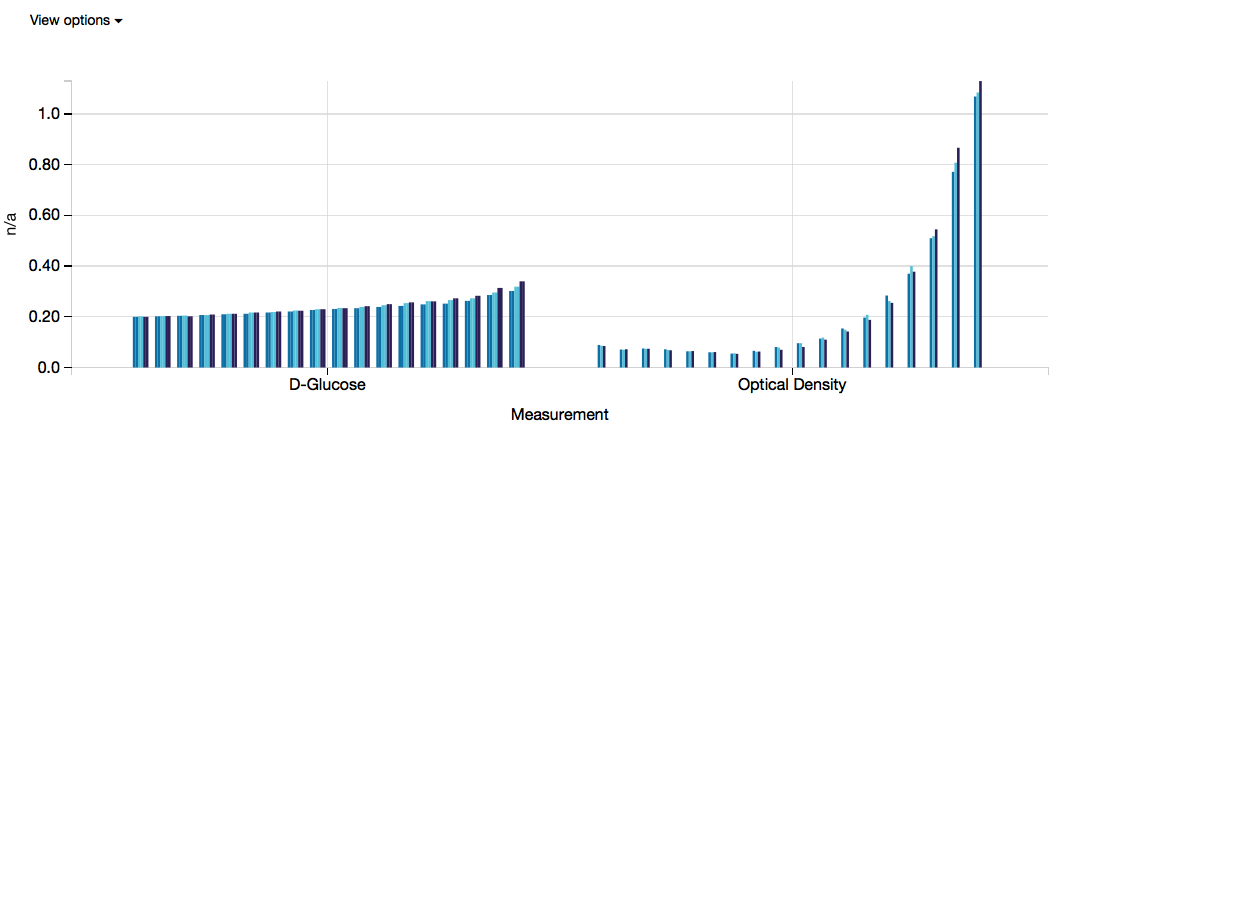
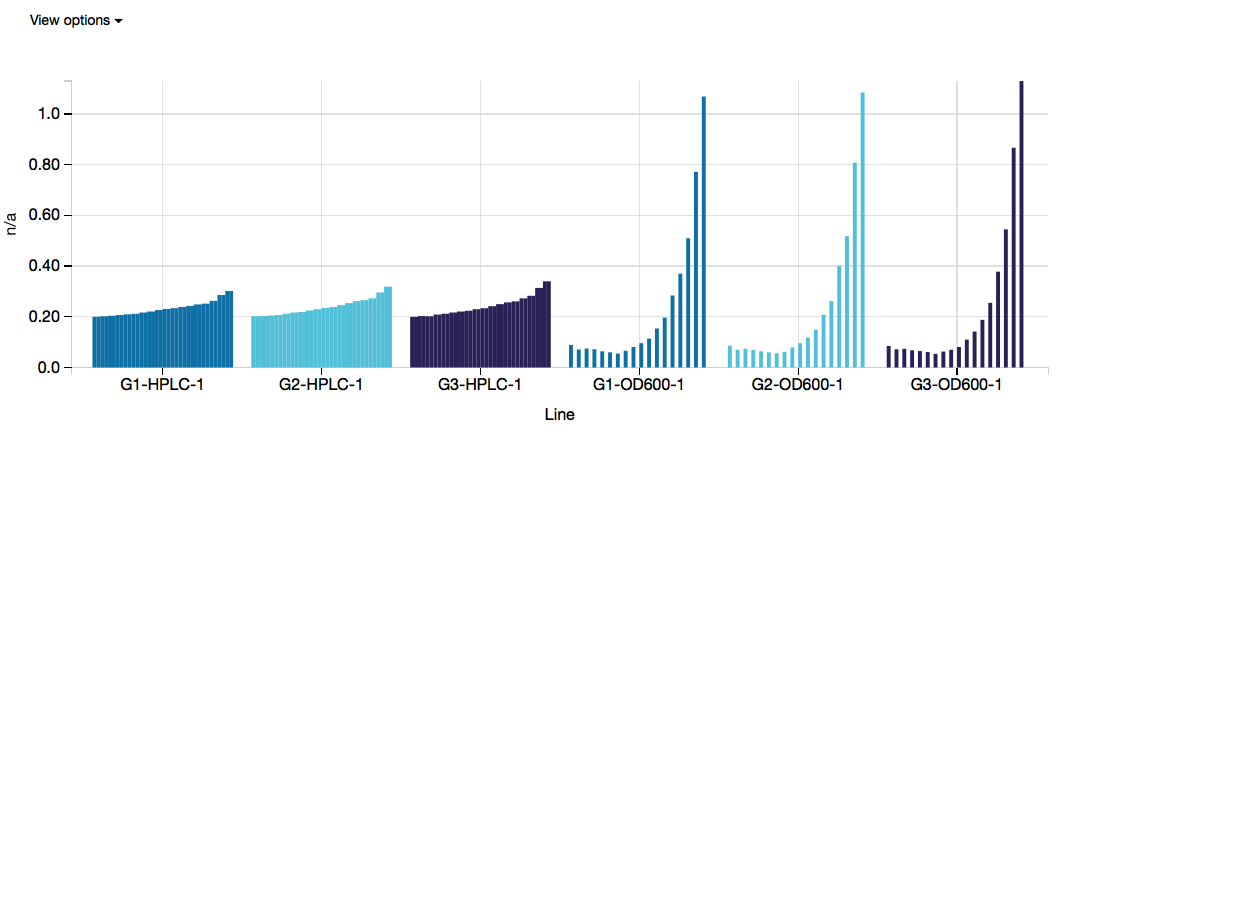
grunt screenshots now work

Changed region(s): [[0.0624, 0.0931, 0.8424, 0.4656]]

diff --git a/main/fixtures/shots.js b/main/fixtures/shots.js
@@ -1,75 +1,71 @@
 
-var CLASSIDS = ['#lineGraph', '#barGraphByMeasurement', '#barGraphByLine', '#barGraphByTime'],
-    BUTTONIDS = ['#lineGraphButton', '#measurementBarGraphButton', '#lineBarGraphButton', '#timeBarGraphButton'],
+var CLASSIDS = ['blank', '#lineGraph', '#barGraphByMeasurement', '#barGraphByLine', '#barGraphByTime'],
     SCREENSHOT_WIDTH = 1280,
     SCREENSHOT_HEIGHT = 900,
-    LOAD_WAIT_TIME = 5000,
+
     page = require("webpage").create();
-
-
-
-var renderPage = function(page, elementId, buttonId){
-    window.setTimeout(function() {
-        var clipRect = page.evaluate(function(buttonId, elementId) {
-            if (buttonId != '#lineGraphButton') {
-                document.querySelector('#barGraphButton').click();
-                document.querySelector(buttonId).click();
-            }
-            return document.querySelector(elementId).getBoundingClientRect();
-        }, buttonId, elementId);
-    }, 5000);
-
-        // console.log('clip' + JSON.stringify(clipRect));
-        var clipRect =  {"bottom":1251.1875,"height":902,"left":15,"right":1265,"top":349.1875,"width":1250};
-        page.clipRect = {
-            top:    clipRect.top,
-            left:   clipRect.left,
-            bottom: clipRect.bottom,
-            width:  clipRect.width,
-            height: clipRect.height
-        };
-
-        var filename = elementId.slice(1) + '.png';
-
-        page.render('main/fixtures/newshots/' + filename);
-
-        console.log("rendered:", filename);
-    };
-
-
-
-var exitIfLast = function(index,array){
-    console.log(array.length - index-1, "more screenshots to go!");
-    console.log("~~~~~~~~~~~~~~");
-    if (index == array.length-1){
-        console.log("exiting phantomjs");
-        phantom.exit();
-    }
-};
-
-var takeScreenshot = function(elementId, buttonId){
-
-    console.log("opening with: ", elementId);
-    console.log('button ', buttonId);
-
     page.viewportSize = {width:SCREENSHOT_WIDTH, height:SCREENSHOT_HEIGHT};
 
-    page.open('http://127.0.0.1:8081/');
-
-    console.log("waiting for page to load...");
-
-    page.onLoadFinished = function() {
-        setTimeout(function(){
-            console.log("that's long enough");
-            renderPage(page, elementId, buttonId);
-            exitIfLast(index,CLASSIDS);
-            index++;
-            takeScreenshot(CLASSIDS[index], BUTTONIDS[index]);
-        },LOAD_WAIT_TIME)
+function run(i) {
+    if (i < 0) {
+        return phantom.exit();
     }
+    page.open('http://127.0.0.1:8081/', function (status) {
+        page.onLoadFinished = function () {
+            console.log('page loaded');
+            console.log(i);
+            if (i === 1) {
+                page.evaluate(function () {
+                    document.querySelector('#lineGraphButton').click();
+                })
+            }
+            if (i === 2 ) {
+                page.evaluate(function () {
+                document.querySelector('#barGraphButton').click();
+                document.querySelector('#measurementBarGraphButton').click();
+                });
+            } else if (i === 3) {
+                page.evaluate(function () {
+                    document.querySelector('#barGraphButton').click();
+                    document.querySelector('#lineBarGraphButton').click();
+                });
+            } else if (i === 4) {
+                page.evaluate(function () {
+                document.querySelector('#barGraphButton').click();
+                document.querySelector('#timeBarGraphButton').click();
+            });
+            }
 
-};
+            var clipRect = {
+                "bottom": 1251.1875,
+                "height": 902,
+                "left": 15,
+                "right": 1265,
+                "top": 349.1875,
+                "width": 1250
+            };
 
-var index = 0; 
+            page.clipRect = {
+                top: clipRect.top,
+                left: clipRect.left,
+                bottom: clipRect.bottom,
+                width: clipRect.width,
+                height: clipRect.height
+            };
 
-takeScreenshot(CLASSIDS[index], BUTTONIDS[index]);
+            var filename = CLASSIDS[i].slice(1) + '.png';
+            console.log('file name ' + filename);
+
+            setTimeout(function () {
+                page.render('main/fixtures/newshots/' + filename);
+                console.log('hopefully printed something');
+            }, 2000);
+
+        };
+        setTimeout(function() {
+    run(i - 1);
+}, 3000)
+
+    })
+}
+run(4);
